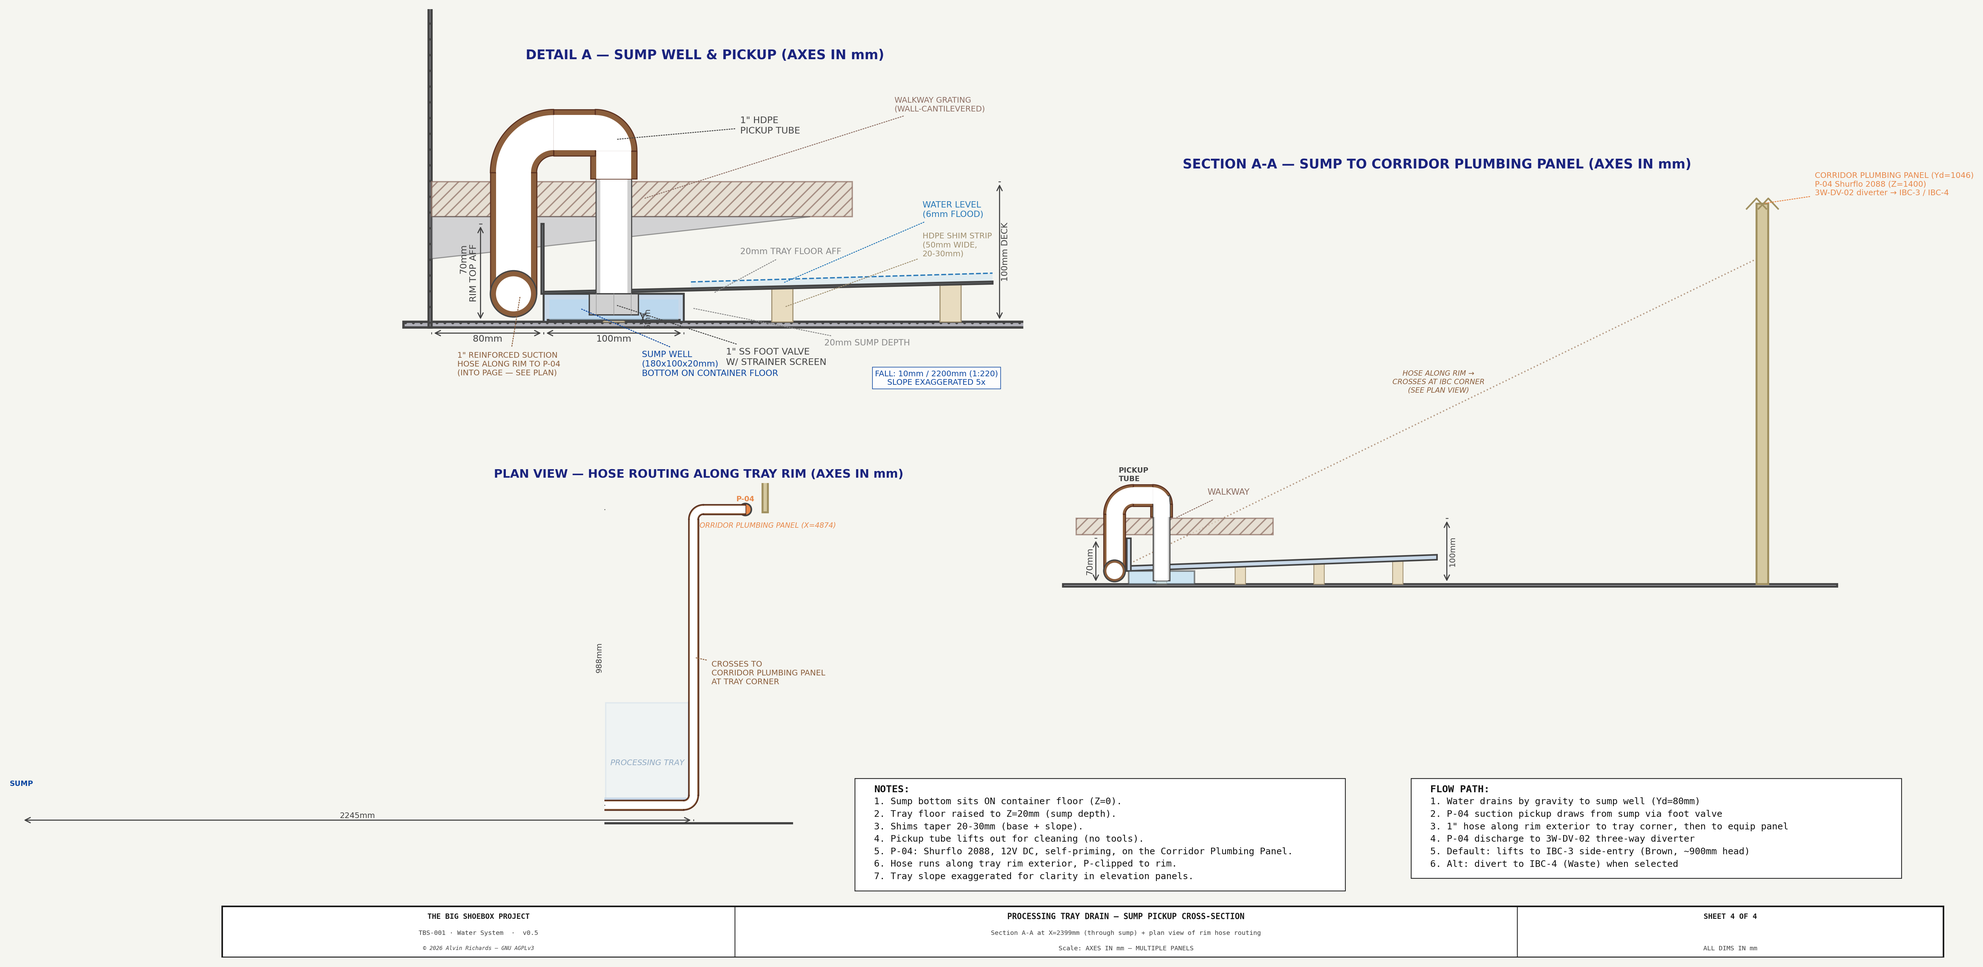
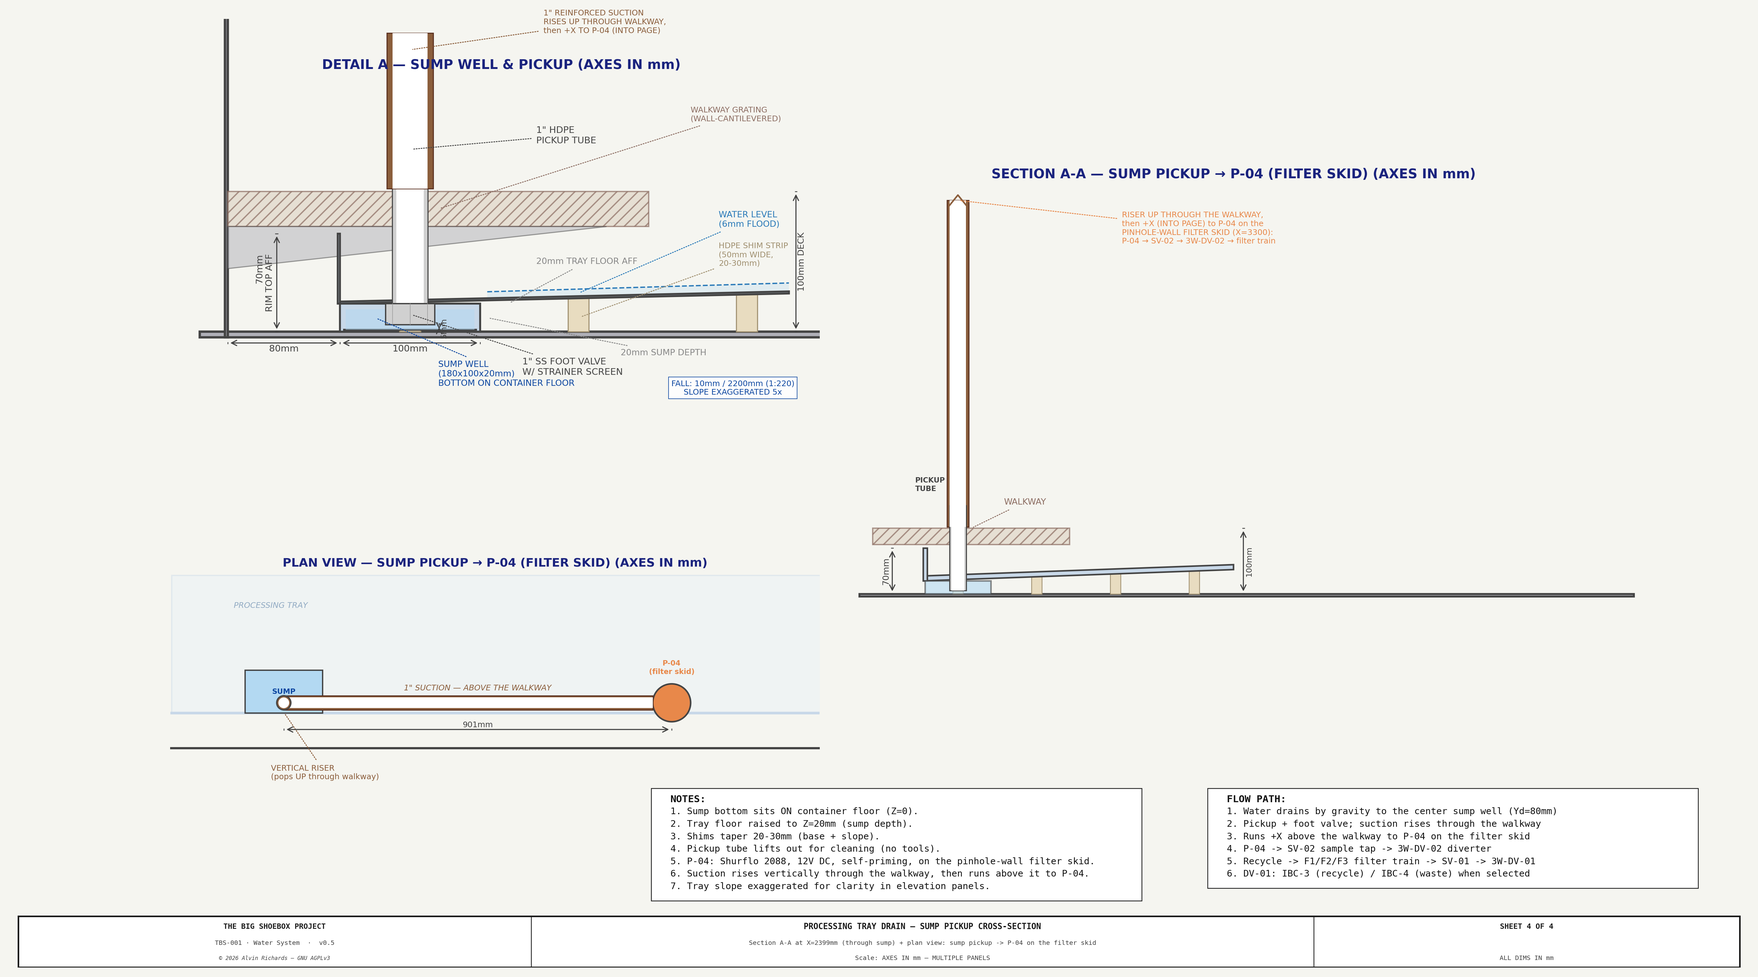
Water Sheet 4: rewrite to Phase-2 center-drain — sump riser → P-04 on filter skid
Replace the old sump-pickup design (hose along rim exterior → Corridor Plumbing
Panel → 3W-DV-02 → IBC-3) with the current Phase-2 topology across all three
panels + notes:

- Detail A: suction rises straight up through the walkway (no fold-over-rim).
- Section A-A: retitled 'SUMP PICKUP → P-04 (FILTER SKID)'; vertical riser +
  break mark + destination leader (up, then +X into page to P-04 on the
  pinhole-wall filter skid → SV-02 → 3W-DV-02 → filter train).
- Plan View: retitled; sump pickup riser → 1" suction above the walkway →
  P-04 on the skid (X=3300); dropped the corridor panel + rim routing.
- Notes/flow-path rewritten to sump → P-04 (skid) → SV-02 → DV-02 → F1/F2/F3
  → SV-01 → DV-01 (IBC-3 recycle / IBC-4 waste).
- Sheet 2 corridor-panel label: P-04→P-02 (swap), drop skid-side DV-02/SV-02.
- Drop now-unused imports.

diff --git a/src/generators/generate_water_system.py b/src/generators/generate_water_system.py
@@ -23,7 +23,7 @@ matplotlib.use("Agg")
 import matplotlib.pyplot as plt
 from matplotlib.patches import FancyBboxPatch
 from matplotlib.gridspec import GridSpec
-from tbs_constants import C_LEN, C_HGT, IBC_COL_X, IBC_W, IBC_D, ZONE_L_END, ZONE_R_START, FP_X_L, FP_X_R, BLUE_IBC_Y, IBC_FAR_Y, PUMP_X, PUMP_W, PUMP_H_LO, PUMP_D, EQPANEL_X, EQPANEL_W, EQPANEL_T, CORRIDOR_YD_NEAR, PROC_TRAY_X_L, PROC_TRAY_X_R, PROC_TRAY_W, PROC_TRAY_D, PROC_TRAY_YD_NEAR, PROC_TRAY_RIM, PROC_TRAY_PITCH, PROC_TRAY_DRAIN_X, PROC_TRAY_DRAIN_YD, PROC_TRAY_SUMP_W, PROC_TRAY_SUMP_D, PROC_TRAY_SUMP_Z, PROC_TRAY_SHIM_H, PROC_TRAY_SHIM_W, WALKWAY_W, WALKWAY_NEAR_YD, WALKWAY_FAR_YD, C_BLUE_IBC, C_BROWN_IBC, C_WASTE_IBC, C_PUMP, DIAGRAMS_DIR
+from tbs_constants import C_LEN, C_HGT, IBC_COL_X, IBC_W, IBC_D, ZONE_L_END, ZONE_R_START, FP_X_L, FP_X_R, BLUE_IBC_Y, IBC_FAR_Y, PUMP_X, PUMP_W, PROC_TRAY_X_L, PROC_TRAY_X_R, PROC_TRAY_W, PROC_TRAY_D, PROC_TRAY_YD_NEAR, PROC_TRAY_RIM, PROC_TRAY_PITCH, PROC_TRAY_DRAIN_X, PROC_TRAY_DRAIN_YD, PROC_TRAY_SUMP_W, PROC_TRAY_SUMP_D, PROC_TRAY_SUMP_Z, PROC_TRAY_SHIM_H, PROC_TRAY_SHIM_W, WALKWAY_W, WALKWAY_NEAR_YD, WALKWAY_FAR_YD, C_BLUE_IBC, C_BROWN_IBC, C_WASTE_IBC, C_PUMP, DIAGRAMS_DIR
 import os
 from tbs_title_block import title_block
 from tbs_drawing import (draw_dim_h, draw_dim_v, leader, draw_notes,
@@ -569,7 +569,7 @@ def draw_sheet2():
     # the clear tray white space to the left so the text doesn't bury the IBC geometry.
     leader(ax2, EP_X_DU, EP_Y_DU + EP_D_DU / 2,
            EP_X_DU - 1.5, EP_Y_DU + EP_D_DU / 2 - 0.62,
-           "CORRIDOR PLUMBING PANEL\nP-01/P-03/P-04/P-05 · ACC-01\nDV-02 · SV-02 · BV-01/02/06",
+           "CORRIDOR PLUMBING PANEL\nP-01/P-02/P-03/P-05 · ACC-01\nBV-01/02/06",
            fs=6, color="#E65100", ha="center")
 
     # Processing tray (304 SS, two panels, 50mm rim)
@@ -879,8 +879,8 @@ def draw_sheet3():
 # SHEET 4 — PROCESSING TRAY DRAIN CROSS-SECTION ELEVATION
 # Two panels:
 #   LEFT  — Zoomed detail of sump well + pickup tube + shim strips (~1:2)
-#   RIGHT — Full cross-section showing suction line from sump to P-04
-#           pump to 3W-DV-02 diverter to IBC-3 (~1:15)
+#   RIGHT — Full cross-section: sump pickup riser up through the walkway to P-04
+#           on the pinhole-wall filter skid -> SV-02 -> 3W-DV-02 -> filter train (~1:15)
 # Horizontal = Yd, Vertical = Z (height above floor).
 # ═══════════════════════════════════════════════════════════════════════════════
 
@@ -905,7 +905,7 @@ def draw_sheet4():
     ax4_tb.axis("off")
     title_block(ax4_tb, f"SHEET 4 OF {TOTAL_SHEETS}",
                 drawing_title="PROCESSING TRAY DRAIN — SUMP PICKUP CROSS-SECTION",
-                subtitle=f"Section A-A at X={PROC_TRAY_DRAIN_X}mm (through sump) + plan view of rim hose routing",
+                subtitle=f"Section A-A at X={PROC_TRAY_DRAIN_X}mm (through sump) + plan view: sump pickup -> P-04 on the filter skid",
                 scale_note="AXES IN mm — MULTIPLE PANELS",
                 doc_id="TBS-001 · Water System",
                 height=0.75)
@@ -1070,26 +1070,18 @@ def draw_sheet4():
                  [(tube_z_bot), (tube_z_bot + foot_valve_h)],
                  color="#999999", lw=0.4, zorder=8)
 
-    # ── Suction hose from tube top, along tray rim exterior ──────────────────────
+    # ── Suction riser from tube top — straight UP through the walkway ─────────────
     HOSE_OD = 33.0   # 1" reinforced suction hose OD (mm)
     HOSE_WALL = 4.0  # hose wall thickness (mm)
-    RIM_EXT_YD = tray_yd_near - HOSE_OD / 2 - 5  # ~60mm — hose CL on exterior of rim
-    HOSE_RIM_Z = TRAY_BASE_Z + rim_h / 2 - 25    # ~20mm — lowered to clear cantilever brackets
 
-    # Hose path: short vertical overlap with tube top (creates 90° elbow) →
-    # horizontal above walkway → 90° elbow → down along rim exterior
-    ELBOW_OVERLAP = HOSE_OD  # vertical approach length for visible elbow fitting
-    hose_pts_y = [tube_yd, tube_yd, RIM_EXT_YD, RIM_EXT_YD]
-    hose_pts_z = [tube_z_top - ELBOW_OVERLAP, tube_z_top, tube_z_top, HOSE_RIM_Z]
-    draw_pipe_path(ax4a, hose_pts_y, hose_pts_z, HOSE_OD, HOSE_WALL,
+    # The suction stays directly over the pickup and rises vertically (no fold-over
+    # the rim).  Above the walkway grate it turns +X (into the page) to P-04 on the
+    # pinhole-wall filter skid.
+    RISER_Z_TOP_A = tube_z_top + 78   # short riser above the grate within this view
+    draw_pipe_path(ax4a, [tube_yd, tube_yd],
+                   [tube_z_top - HOSE_OD, RISER_Z_TOP_A],
+                   HOSE_OD, HOSE_WALL,
                    fc=C_BROWN, ec="#5A3020", zorder=8)
-
-    # Pipe end-on at rim exterior (hose turns to run along X — into the page)
-    pipe_r_a = HOSE_OD / 2 / SC_A
-    pipe_wall_a = HOSE_WALL / SC_A
-    draw_pipe_end(ax4a, (RIM_EXT_YD), (HOSE_RIM_Z),
-                  pipe_r_a, pipe_wall_a,
-                  fc=C_BROWN, ec=C_FRAME, bore_fc="white", zorder=9)
 
     # ── Water surface in tray (away from sump) ───────────────────────────────────
     FLOOD_DEPTH = 6
@@ -1157,9 +1149,9 @@ def draw_sheet4():
            (tube_yd + 90), (140),
            "1\" HDPE\nPICKUP TUBE", fs=7, color=C_FRAME)
 
-    leader(ax4a, (RIM_EXT_YD + 5), (HOSE_RIM_Z),
-           (RIM_EXT_YD - 40), (HOSE_RIM_Z - 50),
-           "1\" REINFORCED SUCTION\nHOSE ALONG RIM TO P-04\n(INTO PAGE — SEE PLAN)", fs=6, color=C_BROWN)
+    leader(ax4a, (tube_yd), (RISER_Z_TOP_A - 12),
+           (tube_yd + 95), (RISER_Z_TOP_A + 8),
+           "1\" REINFORCED SUCTION\nRISES UP THROUGH WALKWAY,\nthen +X TO P-04 (INTO PAGE)", fs=6, color=C_BROWN)
 
     leader(ax4a, (sump_yd_start + PROC_TRAY_SUMP_D/4), (TRAY_BASE_Z / 2),
            (150), (-30),
@@ -1200,7 +1192,7 @@ def draw_sheet4():
     ax4b.set_ylim((-66), (638))
 
     # Panel B title
-    ax4b.text((550), (650), "SECTION A-A — SUMP TO CORRIDOR PLUMBING PANEL (AXES IN mm)",
+    ax4b.text((550), (650), "SECTION A-A — SUMP PICKUP → P-04 (FILTER SKID) (AXES IN mm)",
               ha="center", va="top", fontsize=10, fontweight="bold",
               color="#1A237E", zorder=10)
 
@@ -1252,67 +1244,37 @@ def draw_sheet4():
               ha="left", va="bottom", fontsize=5.5, color=C_FRAME,
               fontweight="bold", zorder=6)
 
-    # ── Suction hose from pickup, along tray rim exterior to equipment panel ─────
-    P04_Z = PUMP_H_LO + 80  # P-04 on equipment panel
-    PANEL_YD = 1046           # equipment panel Yd position
-    RIM_EXT_YD_B = tray_yd_near - HOSE_OD / 2 - 5  # ~60mm — hose CL on rim exterior
-    HOSE_RIM_Z_B = TRAY_BASE_Z + rim_h / 2 - 25    # ~20mm — lowered to clear cantilever brackets
-
-    # Hose path: short vertical overlap with tube top (creates 90° elbow) →
-    # horizontal above walkway → 90° elbow → down along rim exterior
-    ELBOW_OVERLAP_B = HOSE_OD
-    hose_b_y = [tube_yd_b, tube_yd_b, RIM_EXT_YD_B, RIM_EXT_YD_B]
-    hose_b_z = [tube_z_top_b - ELBOW_OVERLAP_B, tube_z_top_b, tube_z_top_b, HOSE_RIM_Z_B]
-    draw_pipe_path(ax4b, hose_b_y, hose_b_z, HOSE_OD, HOSE_WALL,
+    # ── Suction riser: from pickup tube top, straight UP toward P-04 ─────────────
+    # P-04 sits on the pinhole-wall filter skid at X≈3300 (INTO the page in this
+    # section at X=2399) and Z≈1150–1312 — far above this view's Z range (0–638).
+    # The suction rises vertically out of the sump (no fold-back), then runs +X
+    # above the walkway to P-04.  Shown here as a vertical riser truncated at top.
+    RISER_YD_B = tube_yd_b            # stays directly over the pickup
+    RISER_Z_TOP = 600                 # truncated top within view (rises to Z≈1312)
+    draw_pipe_path(ax4b, [RISER_YD_B, RISER_YD_B],
+                   [tube_z_top_b - HOSE_OD, RISER_Z_TOP],
+                   HOSE_OD, HOSE_WALL,
                    fc=C_BROWN, ec="#5A3020", zorder=4)
 
-    # Pipe end-on at rim exterior (hose runs along X — into the page toward IBC corner)
-    pipe_r_b = HOSE_OD / 2 / SC_B
-    pipe_wall_b = HOSE_WALL / SC_B
-    draw_pipe_end(ax4b, (RIM_EXT_YD_B), (HOSE_RIM_Z_B),
-                  pipe_r_b, pipe_wall_b,
-                  fc=C_BROWN, ec=C_FRAME, bore_fc="white", zorder=6)
+    # Break mark (zigzag) at the truncated riser top
+    brk_w_r = 26
+    ax4b.plot([(RISER_YD_B - brk_w_r/2), (RISER_YD_B), (RISER_YD_B + brk_w_r/2)],
+              [(RISER_Z_TOP - 8), (RISER_Z_TOP + 8), (RISER_Z_TOP - 8)],
+              color=C_BROWN, lw=1.2, zorder=5, clip_on=True)
 
-    # Dashed routing indicator from rim to equipment panel (truncated to view range)
-    ROUTE_Z_TOP = 500
-    ax4b.plot([(RIM_EXT_YD_B), (PANEL_YD)],
-              [(HOSE_RIM_Z_B), (ROUTE_Z_TOP)],
-              color=C_BROWN, lw=1.0, ls=":", zorder=3, alpha=0.6)
-    ax4b.text(((RIM_EXT_YD_B + PANEL_YD) / 2), ((HOSE_RIM_Z_B + ROUTE_Z_TOP) / 2 + 30),
-              "HOSE ALONG RIM →\nCROSSES AT IBC CORNER\n(SEE PLAN VIEW)",
-              ha="center", va="bottom", fontsize=5.5, color=C_BROWN,
-              style="italic", zorder=4)
-
-    # ── Near walkway (Yd=0-300) ──────────────────────────────────────────────────
+    # ── Near walkway (Yd=0-300) — pickup pops UP through the grate ───────────────
     ax4b.add_patch(plt.Rectangle(((0), (WK_DECK_H - WK_GRATE_T)),
                   WALKWAY_W / SC_B, WK_GRATE_T / SC_B,
                   fc="#E0D6C8", ec="#8D6E63", lw=1.0, hatch="///", zorder=3,
                   alpha=0.7))
 
-    # ── Equipment panel destination (schematic, within view range) ───────────────
-    # The equipment panel is at Yd=1046, Z=1370–2270 — far above this view's
-    # Z range (0–620).  Show a compact representation at the top of the view
-    # with the plywood strip truncated and a destination leader.
-    EP_Z_TOP = 580   # truncated top within view
-    ax4b.add_patch(plt.Rectangle(((PANEL_YD - 9), (0)),
-                  18 / SC_B, EP_Z_TOP / SC_B,
-                  fc="#D4C8A0", ec="#A09060", lw=1.5, zorder=3))
-
-    # Break marks (zigzag) at truncation
-    brk_z = EP_Z_TOP
-    brk_w = 30
-    for side in [-1, 1]:
-        bx = PANEL_YD + side * 9
-        ax4b.plot([(bx - brk_w/2), (bx), (bx + brk_w/2)],
-                  [(brk_z - 8), (brk_z + 8), (brk_z - 8)],
-                  color="#A09060", lw=1.2, zorder=4, clip_on=True)
-
-    # Destination leader
-    leader(ax4b, (PANEL_YD), (EP_Z_TOP),
-           (PANEL_YD + 80), (EP_Z_TOP + 30),
-           "CORRIDOR PLUMBING PANEL (Yd=1046)\n"
-           "P-04 Shurflo 2088 (Z=1400)\n"
-           "3W-DV-02 diverter → IBC-3 / IBC-4",
+    # Destination leader — up + into page to P-04 on the filter skid
+    leader(ax4b, (RISER_YD_B), (RISER_Z_TOP),
+           (RISER_YD_B + 250), (RISER_Z_TOP - 42),
+           "RISER UP THROUGH THE WALKWAY,\n"
+           "then +X (INTO PAGE) to P-04 on the\n"
+           "PINHOLE-WALL FILTER SKID (X=3300):\n"
+           "P-04 → SV-02 → 3W-DV-02 → filter train",
            fs=6, color=C_PUMP, ha="left")
 
     # ── Dimensions ───────────────────────────────────────────────────────────────
@@ -1330,33 +1292,30 @@ def draw_sheet4():
            "WALKWAY", fs=6.5, color="#8D6E63")
 
     # ═════════════════════════════════════════════════════════════════════════════
-    # PANEL C — PLAN VIEW: HOSE ROUTING ALONG TRAY RIM (~1:8)
+    # PANEL C — PLAN VIEW: SUMP PICKUP → P-04 (FILTER SKID) (~1:8)
     # Looking down (standard plan orientation matching floorplan/IBC sheets):
     #   Horizontal = X (left=cargo door, right=sealed end)
     #   Vertical   = Yd (bottom=near wall/pinhole, top=far wall)
-    # Sump at bottom-right, pipe travels north to equipment panel.
+    # Sump pickup at left; suction runs +X above the walkway to P-04 on the skid.
     # ═════════════════════════════════════════════════════════════════════════════
     SC_C = 1.0
 
-    SUMP_X = PROC_TRAY_DRAIN_X   # 2399mm — center pickup (relocated from the old IBC-corner X4550)
+    SUMP_X = PROC_TRAY_DRAIN_X   # 2399mm — center pickup
+    P04_SKID_X = 3300            # P-04 on the pinhole-wall filter skid (= PWP_FILTER_X1)
+    SKID_YD = 104                # skid lane Yd (near the pinhole wall)
     TRAY_X_R = PROC_TRAY_X_R     # 4629mm
-    IBC_X = IBC_COL_X             # 4674mm
-    EP_X = EQPANEL_X              # 4874mm — equipment panel face X (v2 corridor mouth)
-    EP_W = EQPANEL_W              # 148mm — total X footprint (panel + protrusion)
 
-    X_VIEW_L = 4350
-    X_VIEW_R = EP_X + EQPANEL_T + 80   # ~5098mm
+    X_VIEW_L = SUMP_X - 260
+    X_VIEW_R = P04_SKID_X + 340
     YD_VIEW_BOT = -30
-    YD_VIEW_TOP = 1130
-
-
+    YD_VIEW_TOP = 400
 
     ax4c.set_xlim((X_VIEW_L - 4), (X_VIEW_R + 4))
     ax4c.set_ylim((YD_VIEW_BOT - 4), (YD_VIEW_TOP + 4))
 
     # Panel C title
     ax4c.text(((X_VIEW_L + X_VIEW_R) / 2), (YD_VIEW_TOP + 15),
-              "PLAN VIEW — HOSE ROUTING ALONG TRAY RIM (AXES IN mm)",
+              "PLAN VIEW — SUMP PICKUP → P-04 (FILTER SKID) (AXES IN mm)",
               ha="center", va="bottom", fontsize=9, fontweight="bold",
               color="#1A237E", zorder=10)
 
@@ -1371,18 +1330,13 @@ def draw_sheet4():
                   (TRAY_X_R - tray_x_l_vis) / SC_C,
                   (400 - tray_yd_near) / SC_C,
                   fc="#E8F0F8", ec="#C8D8E8", lw=1.0, zorder=2, alpha=0.4))
-    ax4c.text(((tray_x_l_vis + TRAY_X_R) / 2), (200),
+    ax4c.text((SUMP_X - 30), (330),
               "PROCESSING TRAY", ha="center", va="center",
               fontsize=6, color="#6A8CAF", style="italic", alpha=0.7, zorder=3)
 
     # Near rim line (Yd=80, runs along X — horizontal)
-    ax4c.plot([(tray_x_l_vis), (TRAY_X_R)],
+    ax4c.plot([(tray_x_l_vis), (X_VIEW_R)],
              [(tray_yd_near), (tray_yd_near)],
-             color="#C8D8E8", lw=2.0, zorder=4)
-
-    # Right rim line (X=4629, runs along Yd — vertical)
-    ax4c.plot([(TRAY_X_R), (TRAY_X_R)],
-             [(tray_yd_near), (400)],
              color="#C8D8E8", lw=2.0, zorder=4)
 
     # ── Sump (small rectangle inside tray at near rim) ─────────────────────────
@@ -1394,66 +1348,40 @@ def draw_sheet4():
               "SUMP", ha="center", va="center", fontsize=5.5,
               fontweight="bold", color="#0D47A1", zorder=6)
 
-    # ── Pickup tube end-on (vertical tube seen from above) ─────────────────────
-    tube_r_c = TUBE_OD / 2 / SC_C
-    tube_wall_c = TUBE_WALL / SC_C
-    draw_pipe_end(ax4c, (SUMP_X), (tube_yd),
-                  tube_r_c, tube_wall_c,
-                  fc="#D0D0D0", ec=C_FRAME, bore_fc="white", zorder=7)
+    # ── Pickup riser end-on (vertical suction seen from above, at the sump) ─────
+    draw_pipe_end(ax4c, (SUMP_X), (SKID_YD),
+                  HOSE_OD / 2 / SC_C, HOSE_WALL / SC_C,
+                  fc=C_BROWN, ec=C_FRAME, bore_fc="white", zorder=8)
 
-    # ── Equipment panel (spans corridor at X=EQPANEL_X, perpendicular to sealed end) ──
-    ax4c.add_patch(plt.Rectangle(
-        ((EP_X), (CORRIDOR_YD_NEAR - 9)),
-        EQPANEL_T / SC_C, 270 / SC_C,
-        fc="#D4C8A0", ec="#A09060", lw=1.5, zorder=3))
-    ax4c.text((EP_X + EQPANEL_T / 2), (CORRIDOR_YD_NEAR - 65),
-              f"CORRIDOR PLUMBING PANEL (X={int(EQPANEL_X)})",
-              ha="center", va="bottom", fontsize=5.5, color=C_PUMP,
-              style="italic", zorder=4)
-
-    # P-04 on equipment panel — pump protrudes from panel face toward lower X
-    P04_PLAN_X = EP_X - PUMP_D / 2
+    # ── P-04 on the pinhole-wall filter skid ────────────────────────────────────
     ax4c.add_patch(plt.Circle(
-        ((P04_PLAN_X), (CORRIDOR_YD_NEAR)),
-        20 / SC_C,
+        ((P04_SKID_X), (SKID_YD)),
+        44 / SC_C,
         fc="#E8884A", ec=C_FRAME, lw=1.2, zorder=6))
-    ax4c.text((P04_PLAN_X), (CORRIDOR_YD_NEAR + 35),
-              "P-04", ha="center", va="center", fontsize=5.5,
+    ax4c.text((P04_SKID_X), (SKID_YD + 82),
+              "P-04\n(filter skid)", ha="center", va="center", fontsize=5.5,
               fontweight="bold", color="#E8884A", zorder=7)
 
-    # ── Hose routing along tray rim exterior ───────────────────────────────────
-    RIM_EXT_YD_C = tray_yd_near - HOSE_OD / 2 - 5  # ~60mm
-    CORNER_X = TRAY_X_R + 15   # just past tray right edge
+    # ── Suction: sump riser → runs ABOVE the walkway (+X) to P-04 ────────────────
     draw_pipe_path(ax4c,
-                   [SUMP_X, SUMP_X, CORNER_X, CORNER_X, P04_PLAN_X],
-                   [tube_yd, RIM_EXT_YD_C, RIM_EXT_YD_C, CORRIDOR_YD_NEAR, CORRIDOR_YD_NEAR],
+                   [SUMP_X, P04_SKID_X - 44],
+                   [SKID_YD, SKID_YD],
                    HOSE_OD, HOSE_WALL,
                    fc=C_BROWN, ec="#5A3020", zorder=6)
 
-    # P-clip marks along rim run (small ticks — horizontal marks along vertical pipe)
-    for clip_x in range(SUMP_X, CORNER_X, 60):
-        ax4c.plot([(clip_x), (clip_x)],
-                 [(RIM_EXT_YD_C - 8), (RIM_EXT_YD_C + 8)],
-                 color="#666666", lw=0.6, zorder=5)
-
     # ── Labels ──────────────────────────────────────────────────────────────────
-    leader(ax4c, (SUMP_X - 50), (RIM_EXT_YD_C),
-           (X_VIEW_L + 50), (RIM_EXT_YD_C - 120),
-           "1\" SUCTION HOSE\nALONG RIM EXTERIOR\n(P-CLIPPED TO RIM)", fs=6, color=C_BROWN)
+    leader(ax4c, (SUMP_X), (SKID_YD - 22),
+           (SUMP_X - 30), (-58),
+           "VERTICAL RISER\n(pops UP through walkway)", fs=6, color=C_BROWN)
 
-    leader(ax4c, (CORNER_X), ((RIM_EXT_YD_C + CORRIDOR_YD_NEAR) / 2),
-           (CORNER_X + 60), (500),
-           "CROSSES TO\nCORRIDOR PLUMBING PANEL\nAT TRAY CORNER", fs=6, color=C_BROWN)
+    ax4c.text(((SUMP_X + P04_SKID_X) / 2), (SKID_YD + 26),
+              "1\" SUCTION — ABOVE THE WALKWAY", ha="center", va="bottom",
+              fontsize=6, color=C_BROWN, style="italic", zorder=7)
 
-    # ── Dimensions ──────────────────────────────────────────────────────────────
-    # Rim-to-panel Yd distance (vertical dim)
-    draw_dim_v(ax4c, (X_VIEW_L - 5), (RIM_EXT_YD_C), (CORRIDOR_YD_NEAR),
-               f"{CORRIDOR_YD_NEAR - RIM_EXT_YD_C:.0f}mm", offset=6.4, fs=6)
-
-    # Hose run along rim (X distance — horizontal dim)
-    draw_dim_h(ax4c, (SUMP_X), (CORNER_X),
-               (RIM_EXT_YD_C - 50),
-               f"{CORNER_X - SUMP_X}mm", offset=4, fs=6)
+    # ── Dimension: sump → P-04 (X distance) ─────────────────────────────────────
+    draw_dim_h(ax4c, (SUMP_X), (P04_SKID_X),
+               (SKID_YD - 62),
+               f"{P04_SKID_X - SUMP_X}mm", offset=4, fs=6)
 
     # ── Notes axes (full-width strip above title block) ─────────────────────────
     ax4_notes = fig4.add_axes([0.04, 0.06, 0.92, 0.10])
@@ -1467,8 +1395,8 @@ def draw_sheet4():
         "2. Tray floor raised to Z=20mm (sump depth).",
         "3. Shims taper 20-30mm (base + slope).",
         "4. Pickup tube lifts out for cleaning (no tools).",
-        "5. P-04: Shurflo 2088, 12V DC, self-priming, on the Corridor Plumbing Panel.",
-        "6. Hose runs along tray rim exterior, P-clipped to rim.",
+        "5. P-04: Shurflo 2088, 12V DC, self-priming, on the pinhole-wall filter skid.",
+        "6. Suction rises vertically through the walkway, then runs above it to P-04.",
         "7. Tray slope exaggerated for clarity in elevation panels.",
     ]
     draw_notes(ax4_notes, notes4, 38, 9.25, spacing=1.1,
@@ -1477,12 +1405,12 @@ def draw_sheet4():
 
     flow_notes = [
         "FLOW PATH:",
-        "1. Water drains by gravity to sump well (Yd=80mm)",
-        "2. P-04 suction pickup draws from sump via foot valve",
-        "3. 1\" hose along rim exterior to tray corner, then to equip panel",
-        "4. P-04 discharge to 3W-DV-02 three-way diverter",
-        "5. Default: lifts to IBC-3 side-entry (Brown, ~900mm head)",
-        "6. Alt: divert to IBC-4 (Waste) when selected",
+        "1. Water drains by gravity to the center sump well (Yd=80mm)",
+        "2. Pickup + foot valve; suction rises through the walkway",
+        "3. Runs +X above the walkway to P-04 on the filter skid",
+        "4. P-04 -> SV-02 sample tap -> 3W-DV-02 diverter",
+        "5. Recycle -> F1/F2/F3 filter train -> SV-01 -> 3W-DV-01",
+        "6. DV-01: IBC-3 (recycle) / IBC-4 (waste) when selected",
     ]
     draw_notes(ax4_notes, flow_notes, 70, 9.25, spacing=1.1,
                fs=7, width=26, color=C_TEXT, title_color=C_TEXT,
